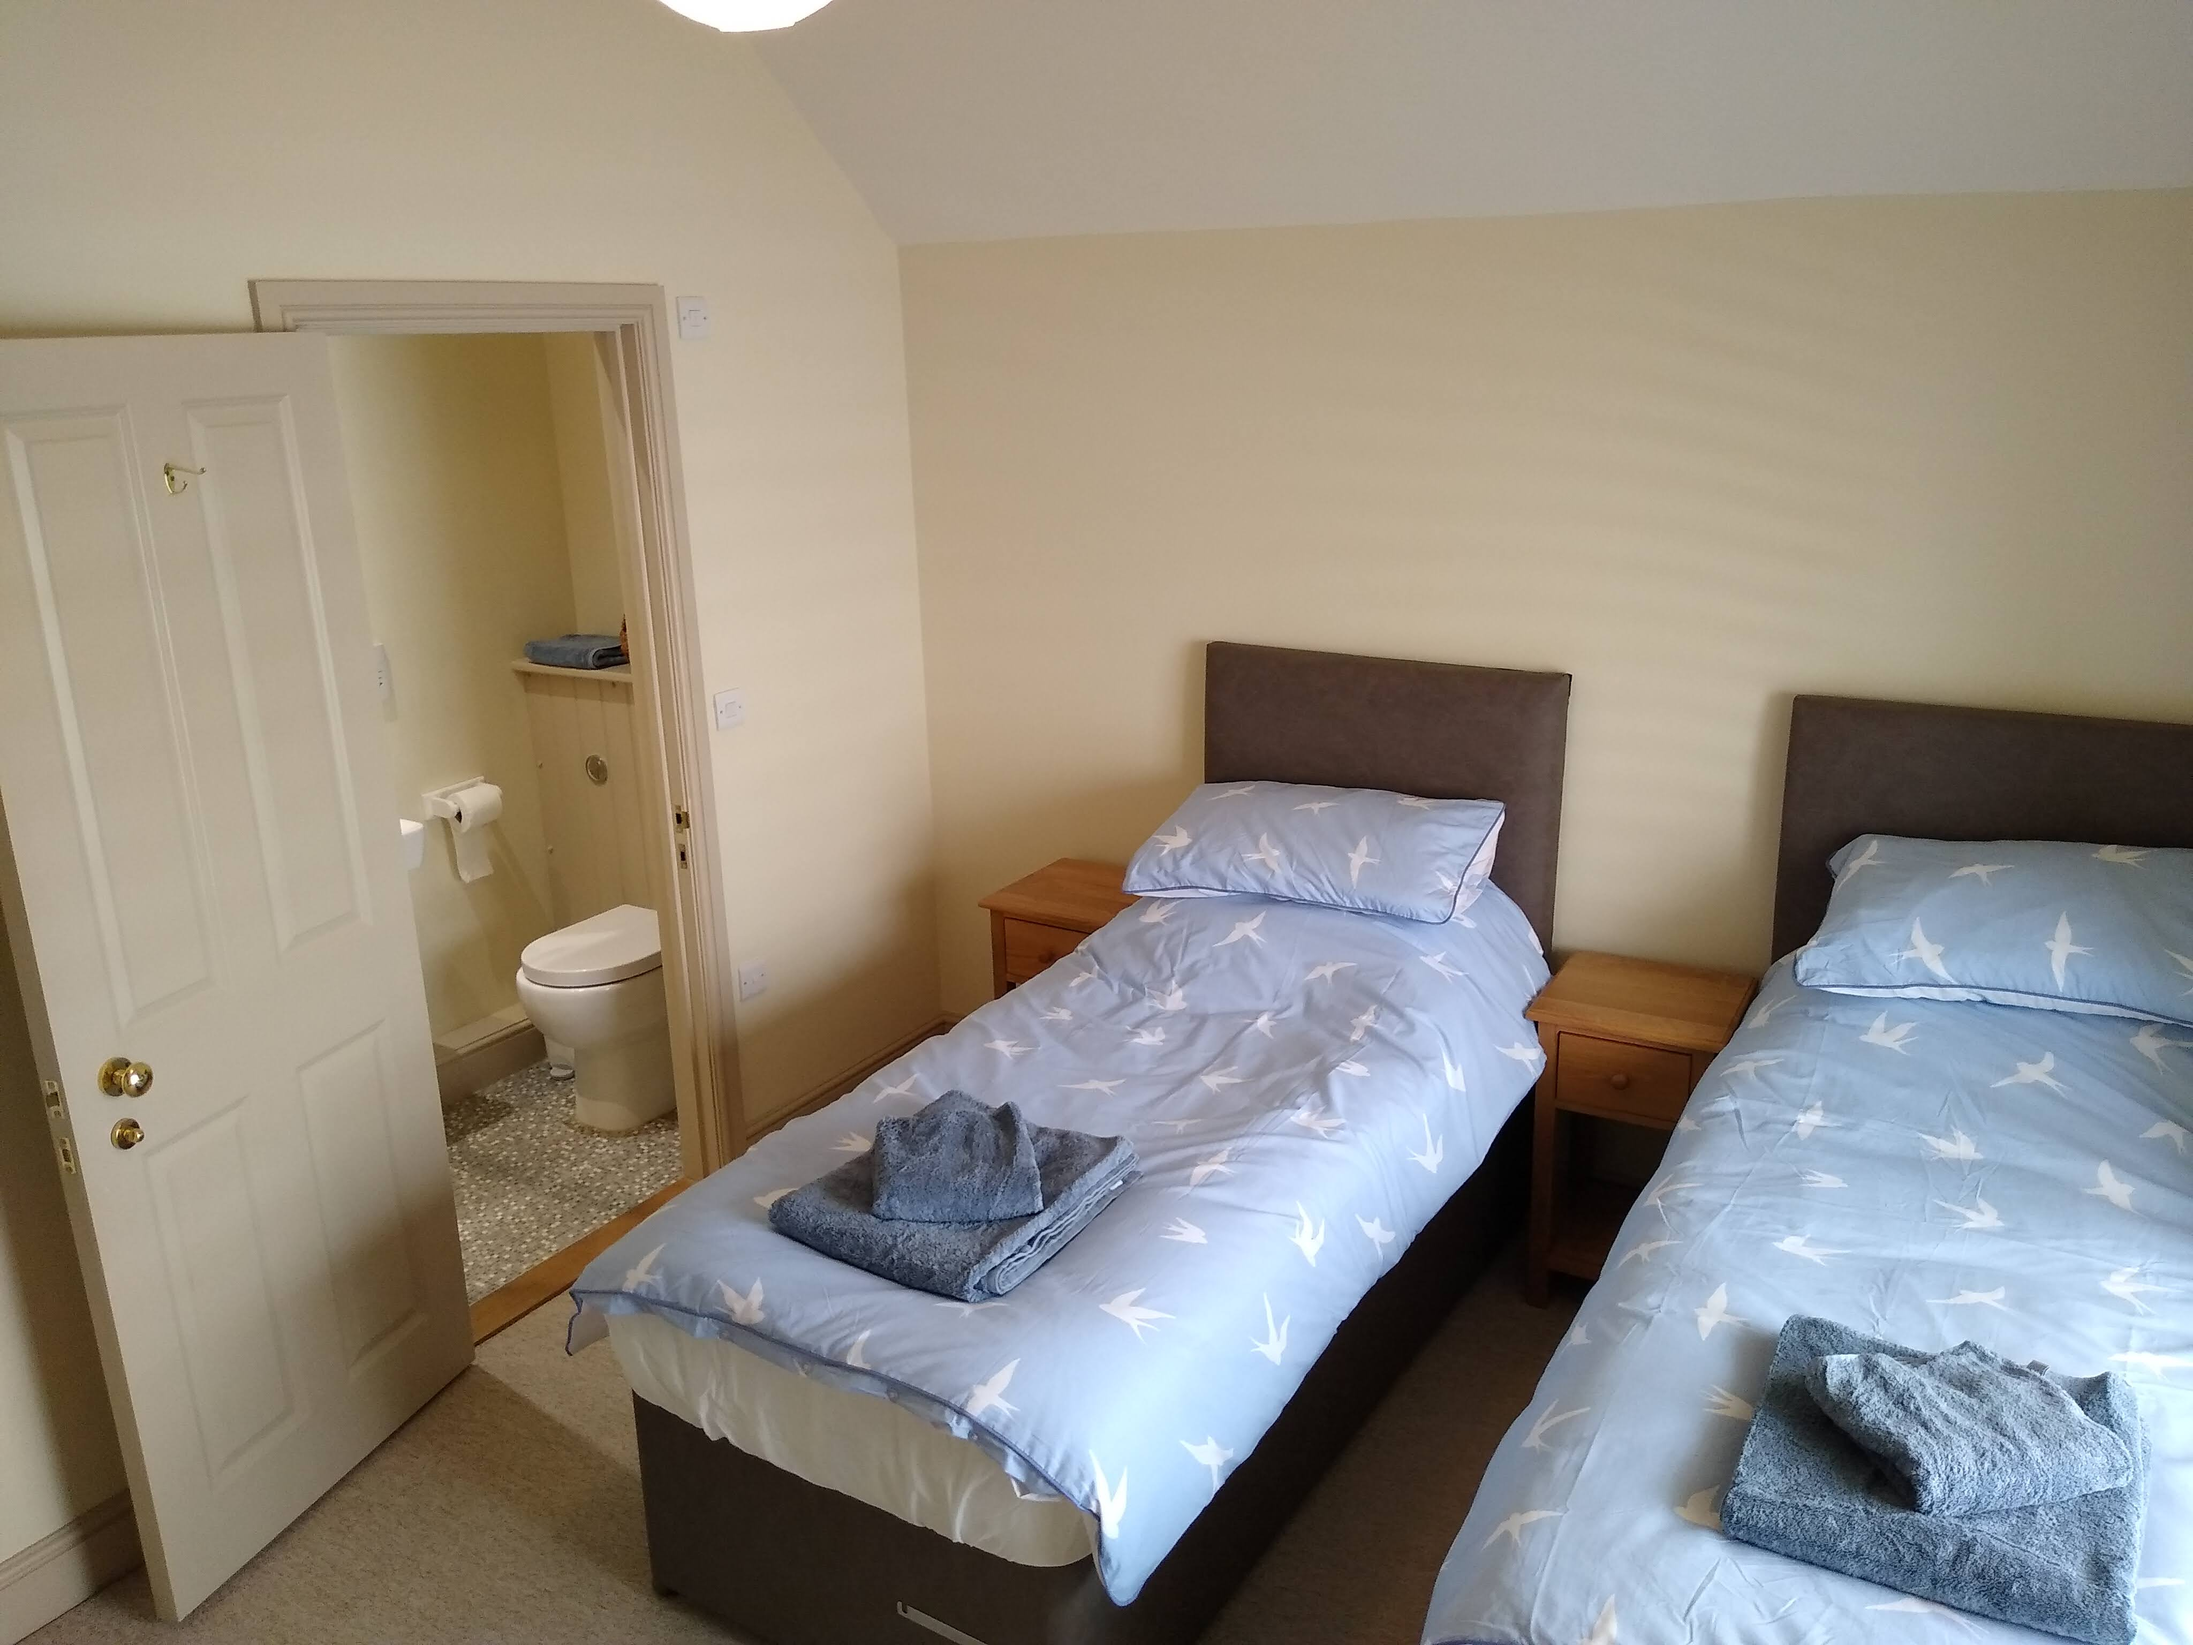
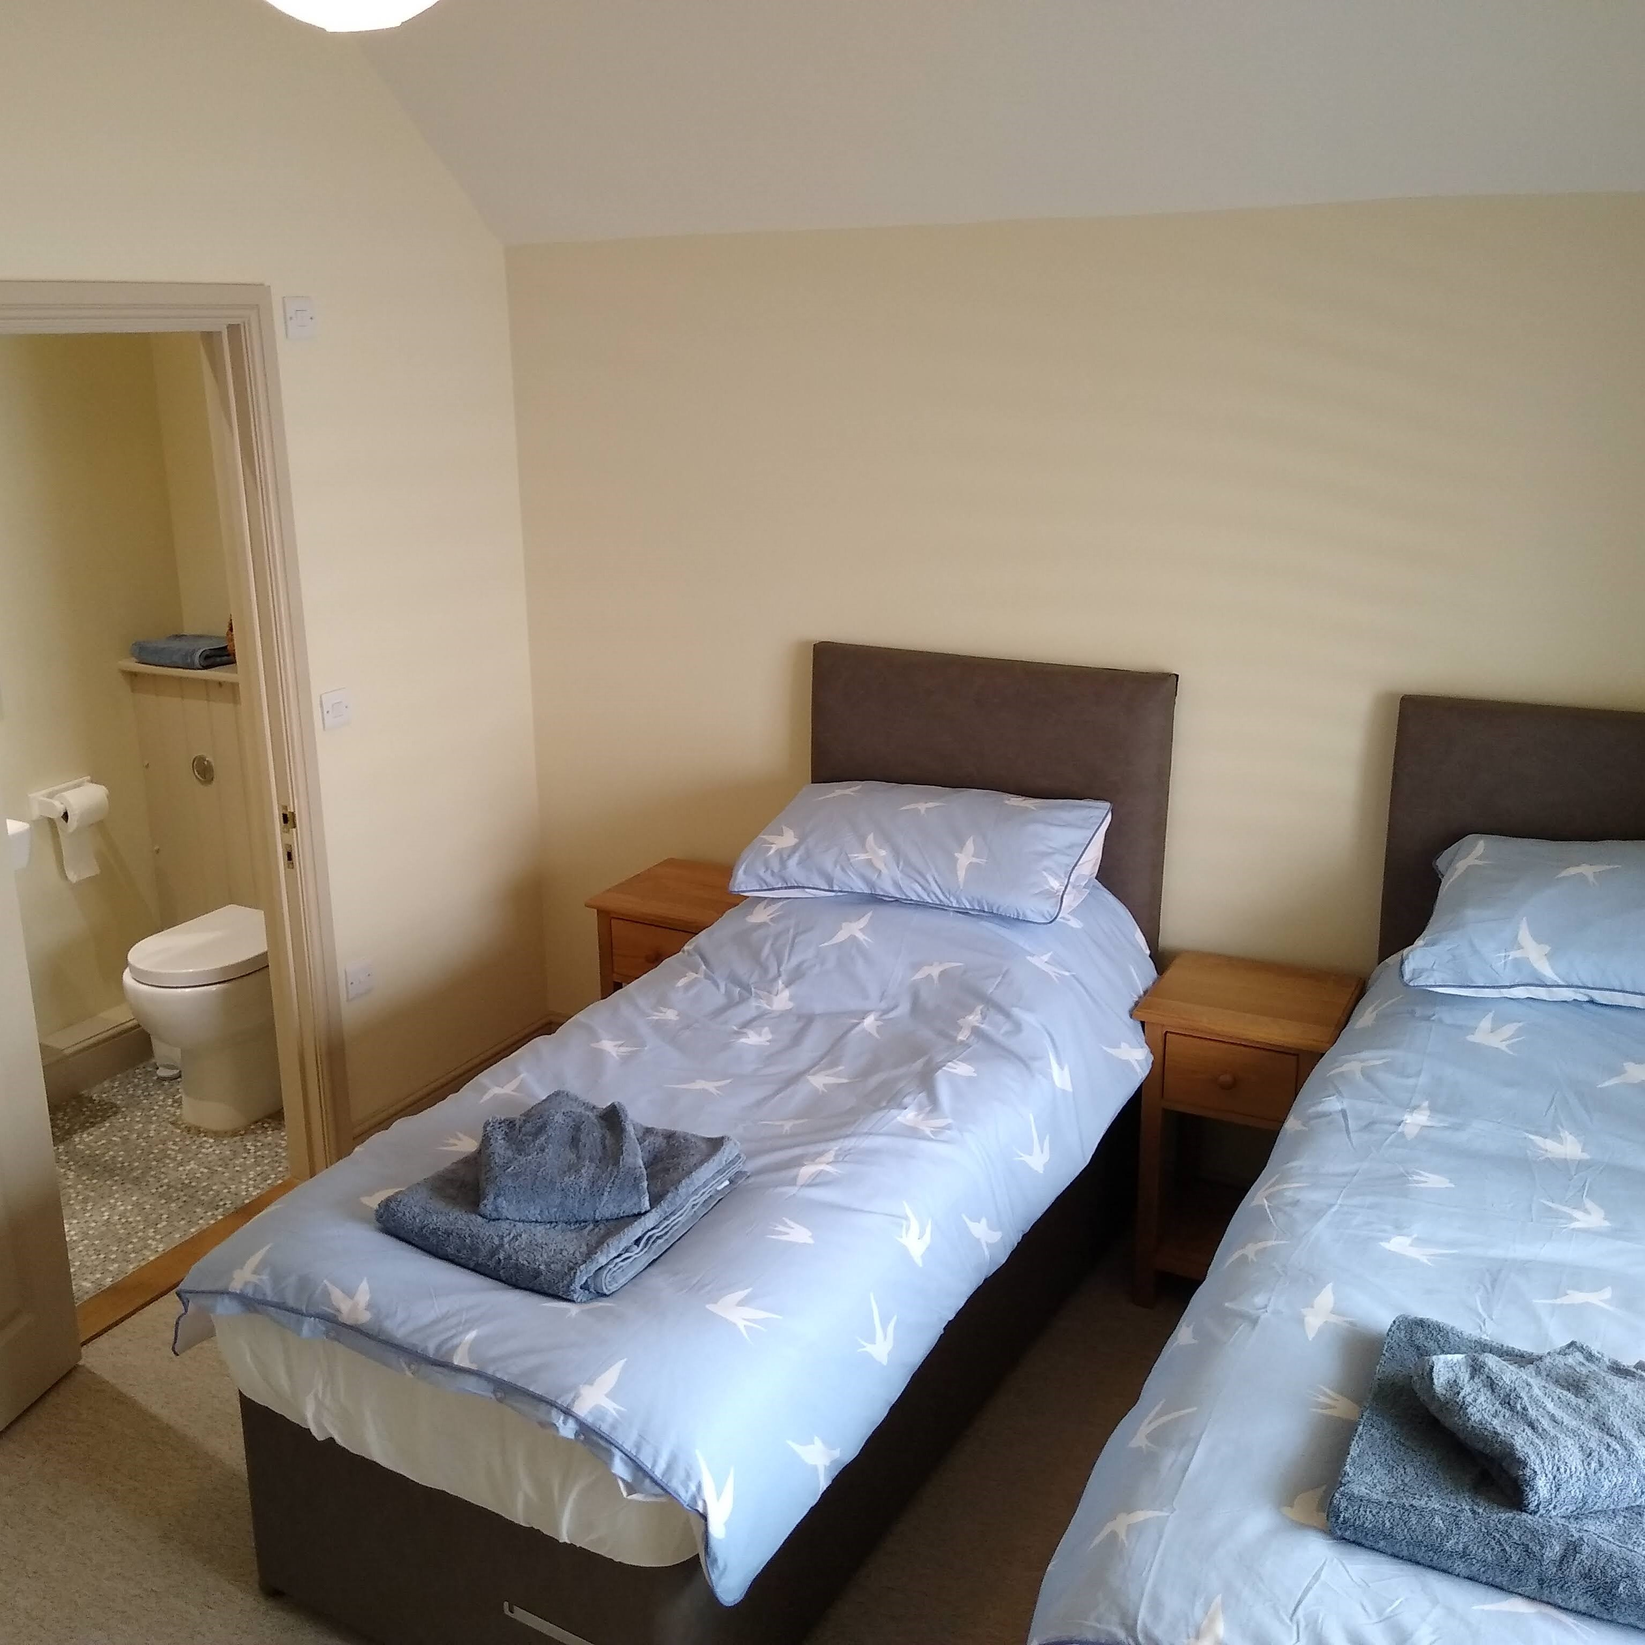
Images reformatted
Use of square images so pagination is better, particularly for mobile devices.

diff --git a/slides-data.js b/slides-data.js
@@ -5,50 +5,50 @@ const getAllSlideData = () => {
     slides[0] = {
 		slide_number: 1,
         total_slides: 14,
-        slide_image: "Images/For Listing/001 Chapel Outside - Front.jpg",
+        slide_image: "Images/For Listing/SQ001 Chapel Outside - Front.jpg",
         style: "height:675px",
 		caption: "The Chapel 1861"
 	};
 	slides[1] = {
 		slide_number: 2,
         total_slides: 14,
-        slide_image: "Images/For Listing/003 Chapel Outside - Patio - 1.jpg",
+        slide_image: "Images/For Listing/SQ003 Chapel Outside - Patio - 1.jpg",
         style: "height:675px",
 		caption: "Outside dining area"
 	};
     slides[2] = {
 		slide_number: 3,
         total_slides: 14,
-        slide_image: "Images/For Listing/004 - Chapel Inside - Sitting - 3.jpg",
+        slide_image: "Images/For Listing/SQ004 - Chapel Inside - Sitting - 3.jpg",
         style: "height:675px",
 		caption: "Open plan living area"
 	};
     slides[3] = {
 		slide_number: 4,
         total_slides: 14,
-        slide_image: "Images/For Listing/005 Chapel Inside - Kitchen - 3.jpg",
-        style: "width:100%",
+        slide_image: "Images/For Listing/SQ005 Chapel Inside - Kitchen - 3.jpg",
+        style: "height:675px",
 		caption: "Open plan kitchen"
 	};
 	slides[4] = {
 		slide_number: 5,
         total_slides: 14,
-        slide_image: "Images/For Listing/006 Chapel Inside - Dining - 2.jpg",
-        style: "width:100%",
+        slide_image: "Images/For Listing/SQ006 Chapel Inside - Dining - 2.jpg",
+        style: "height:675px",
 		caption: "Open plan dining area"
 	};
     slides[5] = {
 		slide_number: 6,
         total_slides: 14,
-        slide_image: "Images/For Listing/007 Chapel Inside - Landing - 4.jpg",
-        style: "width:100%",
+        slide_image: "Images/For Listing/SQ007 Chapel Inside - Landing - 4.jpg",
+        style: "height:675px",
 		caption: "Galleried landing"
 	};
     slides[6] = {
 		slide_number: 7,
         total_slides: 14,
         slide_image: "Images/For Listing/008 Chapel Inside - Master 6.jpg",
-        style: "width:100%",
+        style: "height:675px",
 		caption: "Master suite"
 	};
     slides[7] = {
@@ -76,7 +76,7 @@ const getAllSlideData = () => {
 		slide_number: 11,
         total_slides: 14,
         slide_image: "Images/For Listing/011 - Chapel Inside - Bed 4 - 5.jpg",
-        style: "width:100%",
+        style: "height:675px",
 		caption: "Bedroom 4"
 	};
     slides[11] = {
@@ -89,7 +89,7 @@ const getAllSlideData = () => {
     slides[12] = {
 		slide_number: 13,
         total_slides: 14,
-        slide_image: "Images/For Listing/002 Chapel Outside - Front Door - 2.jpg",
+        slide_image: "Images/For Listing/SQ002 Chapel Outside - Front Door - 2.jpg",
         style: "height:675px",
 		caption: "Welcome to The Chapel 1861"
 	};
@@ -97,7 +97,7 @@ const getAllSlideData = () => {
 		slide_number: 14,
         total_slides: 14,
         slide_image: "Images/Logo-tall.jpg",
-        style: "height:400px",
+        style: "height:600px",
 		caption: "The Chapel 1861"
 	};
 	

diff --git a/index.js b/index.js
@@ -181,7 +181,7 @@ const createSingleMonthHTML = (currentMonth) => {
 				htmlString += `<li>${currentMonth[n].dayOfMonth}  <span style="font-size:0.85rem">£${currentMonth[n].night_price}</span></li>`;
 			}
   		} else if(currentMonth[n].availability == "TENTATIVE"){
-			htmlString += `<li><span class="tentative"> ${currentMonth[n].dayOfMonth}</span></li>`;
+			htmlString += `<li><span class="tentative"> ${currentMonth[n].dayOfMonth}  <span style="font-size:0.85rem">£${currentMonth[n].night_price}</span></li>`;
 		} else{
 			htmlString += `<li><span class="active"> ${currentMonth[n].dayOfMonth}</span></li>`;
 		}

diff --git a/style.css b/style.css
@@ -462,7 +462,7 @@ section.container .row {
   display: flex;
   align-items: flex-end;
   height: 100vh;
-  background-image: url('Images/For Listing/002 Chapel Outside - Front Door - 2.jpg');
+  background-image: url('Images/For Listing/SQ002 Chapel Outside - Front Door - 2.jpg');
   background-size: cover;
   background-position: center;
 }
